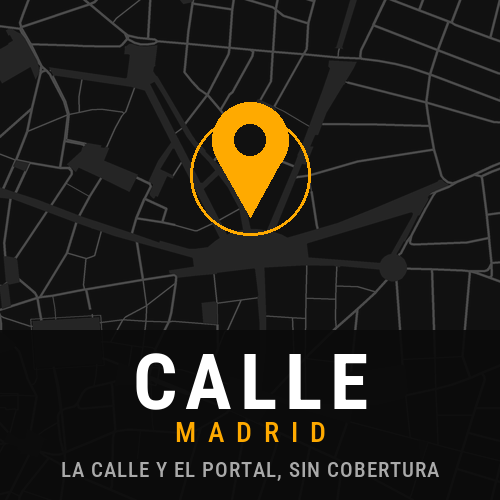
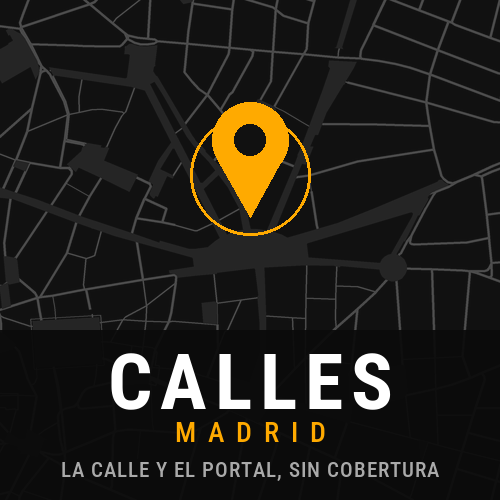
Calles Galicia y Calles Madrid: nombre nuevo, carátula «CALLES» y descripciones con lo offline por delante

Changed region(s): [[0.21, 0.69, 0.78, 0.84]]

diff --git a/tools/caratula.py b/tools/caratula.py
@@ -5,7 +5,7 @@
                                  y tools/out/caratula_<X>.png / icono_<X>.png
     tools/caratula.py --instalar la elegida (B, 2026-10-25): docs/tienda/galicia/portada_500.png,
                                  docs/tienda/portada_500.png (Madrid) y el icono del lanzador,
-                                 resources/drawables/launcher_icon.png (de todas las apps CALLE)
+                                 resources/drawables/launcher_icon.png (de todas las apps Calles)
 
 El fondo es el callejero real de cada app (tools/out/geom-<región>.json, ODbL), dibujado tenue: el casco de
 Santiago en Galicia y la Puerta del Sol en Madrid.
@@ -140,7 +140,7 @@ def caratula_b(region="galicia"):
     d = ImageDraw.Draw(img)
     d.ellipse((250 - 60, 175 - 60, 250 + 60, 175 + 60), outline=AMBAR + (255,), width=3)
     marcador(d, 250, 140, 38, AMBAR + (255,), hueco=FONDO + (255,))
-    texto(d, (250, 382), "CALLE", fuente(78), BLANCO, espacio=8)
+    texto(d, (250, 382), "CALLES", fuente(78), BLANCO, espacio=8)
     texto(d, (250, 432), region.upper(), fuente(28, 500), AMBAR, espacio=12)
     texto(d, (250, 470), "LA CALLE Y EL PORTAL, SIN COBERTURA", fuente(21, 500), GRIS, espacio=1)
     return img.convert("RGB")

diff --git a/docs/tienda/calle-madrid.md b/docs/tienda/calle-madrid.md
@@ -1,4 +1,4 @@
-# CALLE Madrid — textos de la Connect IQ Store
+# Calles Madrid — textos de la Connect IQ Store
 
 Primera app del catálogo por zonas (`tools/catalogo.json`): `APP=madrid ./ciq.sh tienda` → `bin/calle-madrid.iq`.
 Subida nueva en el portal (no es una versión de la beta), con el id `cc8abcb6…`.
@@ -14,7 +14,7 @@ comprueba en local con `openssl dgst -sha256 -verify dev_key.pub -keyform DER -s
 misma app. El `.iq` pesa 52,5 MB: lo sube el autor a mano, porque el navegador automatizado no pasa de 10 MB.
 La `ficha_2.png` (Argüelles) entra ahora en las imágenes: las cinco, en orden.
 
-**3.4.0 (2026-10-25): la interfaz de CALLE Galicia (P73).** Mismos relojes y mismos datos que la 3.2.0; cambian la
+**3.4.0 (2026-10-25): la interfaz de Calles Galicia (P73).** Mismos relojes y mismos datos que la 3.2.0; cambian la
 pantalla, la carátula (el marcador ámbar sobre el callejero de Sol, `tools/caratula.py --instalar`) y el icono.
 Las cinco imágenes, regeneradas (`mockup.py --ficha`). El `.iq` (`bin/calle-madrid.iq`, 52,5 MB, firma verificada)
 se subió el mismo día con *Upload New Version* mientras la 3.2.0 seguía en revisión: el portal la verificó
@@ -24,8 +24,9 @@ subir cada trozo a un `<input type=file>` auxiliar creado por JS, recomponer con
 SHA-256 en la página y asignarlo al campo real con `DataTransfer`. Servirlo desde localhost no vale: la CSP
 (`connect-src`) del portal lo bloquea.
 
-**Título «CALLE Madrid (offline)»** (decisión del autor, 2026-10-25: que no usa red es su punto fuerte). Se cambia
-con *Edit Details* en cuanto Garmin apruebe la 3.2.0: no se toca mientras esté en revisión.
+**Título «Calles Madrid (offline)»** (el autor, 2026-10-26; antes «CALLE Madrid (offline)»: que no usa red es su
+punto fuerte). Se cambia con *Edit Details*, junto con la carátula «CALLES / MADRID», en cuanto Garmin apruebe la
+versión en revisión: no se toca mientras tanto. En el reloj, «Calles Madrid» llega con la próxima versión.
 
 Atribución obligatoria (OSM y Ayuntamiento de Madrid): no se quita de ninguna versión. El Catastro no
 aparece, porque solo se usa en Santiago.
@@ -34,9 +35,15 @@ aparece, porque solo se usa en Santiago.
 
 ## Español
 
-**Nombre:** CALLE Madrid
+**Nombre:** Calles Madrid (offline)
 
-La calle, el número de portal y las calles a cada lado, sin teléfono ni cobertura.
+**Sin conexión.** El callejero de Madrid entero viaja dentro de la app: la calle, el número de portal y las calles a
+cada lado, sin teléfono, sin cobertura y sin datos móviles.
+
+**Por qué sin conexión:**
+- Funciona donde el móvil no llega: sin cobertura, sin datos o con el teléfono en casa.
+- No espera a ninguna red ni a ningún servidor: en cuanto el reloj tiene posición, tiene la dirección.
+- Su posición es solo suya: la app no tiene acceso a internet, así que no puede enviarla a ningún sitio.
 
 - En qué calle está, el portal más cercano y entre qué calles; en un cruce, la esquina.
 - Barrio y distrito.
@@ -48,8 +55,7 @@ La calle, el número de portal y las calles a cada lado, sin teléfono ni cobert
 Zona: el término municipal de Madrid entero, en el fēnix 6X y en toda la familia fēnix 7. Se irán añadiendo
 relojes.
 
-Privacidad: solo pide el permiso de posición. No tiene red: la posición no sale nunca del reloj. No graba
-actividades.
+Permisos: solo la posición. Sin acceso a internet y sin grabar actividades.
 
 Primera versión: los fallos y las sugerencias, al correo de contacto.
 
@@ -65,9 +71,15 @@ Datos más compactos.
 
 ## English
 
-**Name:** CALLE Madrid
+**Name:** Calles Madrid (offline)
 
-Street name, door number and the streets on each side, with no phone and no signal.
+**Fully offline.** The street map of all of Madrid ships inside the app: street name, door number and the streets
+on each side, with no phone, no signal and no mobile data.
+
+**Why offline:**
+- It works where your phone doesn't: no signal, no data, or the phone left at home.
+- It never waits for a network or a server: as soon as the watch has a position, you have the address.
+- Your position stays yours: the app has no internet access, so it cannot send it anywhere.
 
 - The street you are on, the nearest door number and the cross streets on each side; at a junction, the
   corner.
@@ -80,8 +92,7 @@ Street name, door number and the streets on each side, with no phone and no sign
 Area: the whole municipality of Madrid, on the fēnix 6X and the whole fēnix 7 family. More watches will
 follow. The interface is in Spanish.
 
-Privacy: the only permission is position. No network access: your position never leaves the watch. No
-activity recording.
+Permissions: position only. No internet access and no activity recording.
 
 First release: please send bugs and suggestions to the contact email.
 

diff --git a/README.md b/README.md
@@ -1,15 +1,15 @@
-# CALLE
+# Calles
 
 Callejero sin conexión para relojes Garmin fēnix (app de Connect IQ). Al abrirla dice en qué calle está,
 el número del portal más cercano y entre qué calles, sin teléfono ni cobertura: el callejero viaja dentro
 de la app y la posición no sale nunca del reloj.
 
-> **English.** CALLE is an offline street finder for Garmin fēnix watches. It shows the street you are on,
+> **English.** Calles is an offline street finder for Garmin fēnix watches. It shows the street you are on,
 > the nearest door number and the cross streets on each side. The street data ships inside the app, it
 > needs no phone or network, and your position never leaves the watch. Areas: Santiago de Compostela and
 > Madrid (Spain). The interface is in Spanish.
 
-![Pantallas de CALLE](docs/tienda/ficha_1.png)
+![Pantallas de Calles](docs/tienda/ficha_1.png)
 
 ## Qué hace
 
@@ -41,7 +41,7 @@ de la app y la posición no sale nunca del reloj.
 |---|---|
 | fēnix 7X Pro (y su variante sin Wi-Fi) | Santiago de Compostela y alrededores; término municipal de Madrid |
 | fēnix 6X Pro | una parte de Madrid |
-| fēnix 7X Pro, app aparte (CALLE Galicia, en beta) | Galicia entera, en teselas adaptativas y zonas de 10 km |
+| fēnix 7X Pro, app aparte (Calles Galicia, en beta) | Galicia entera, en teselas adaptativas y zonas de 10 km |
 
 El fēnix 6X no admite más de 254 recursos de datos por app, así que lleva datos compactos y solo los
 distritos de `compacta.distritos` en `tools/regiones.json`.
@@ -142,5 +142,5 @@ en el repositorio.
 
 Herramienta de apoyo, sin garantía (véase `LICENSE`). Los datos de OpenStreetMap y de las fuentes
 oficiales pueden tener errores u omisiones. La guía a hospitales y comisarías es en línea recta, no por
-calles. Compruebe siempre la dirección antes de darla por buena. CALLE no está afiliada a Garmin ni a
+calles. Compruebe siempre la dirección antes de darla por buena. Calles no está afiliada a Garmin ni a
 ningún organismo público.
